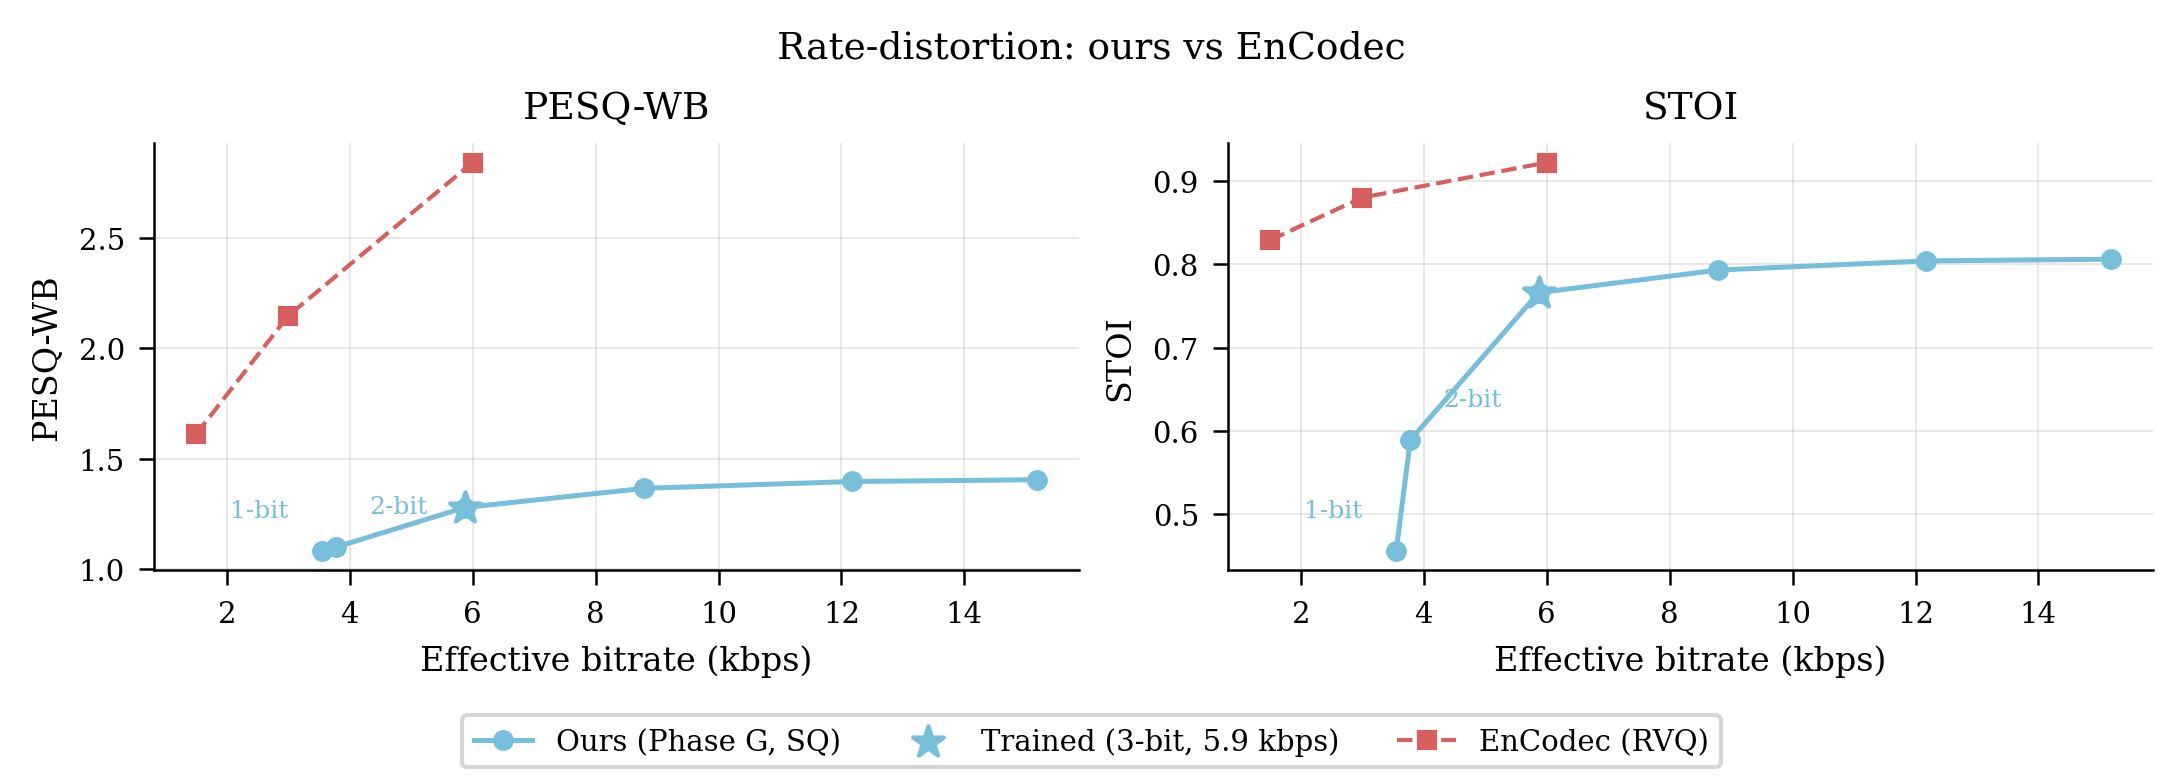
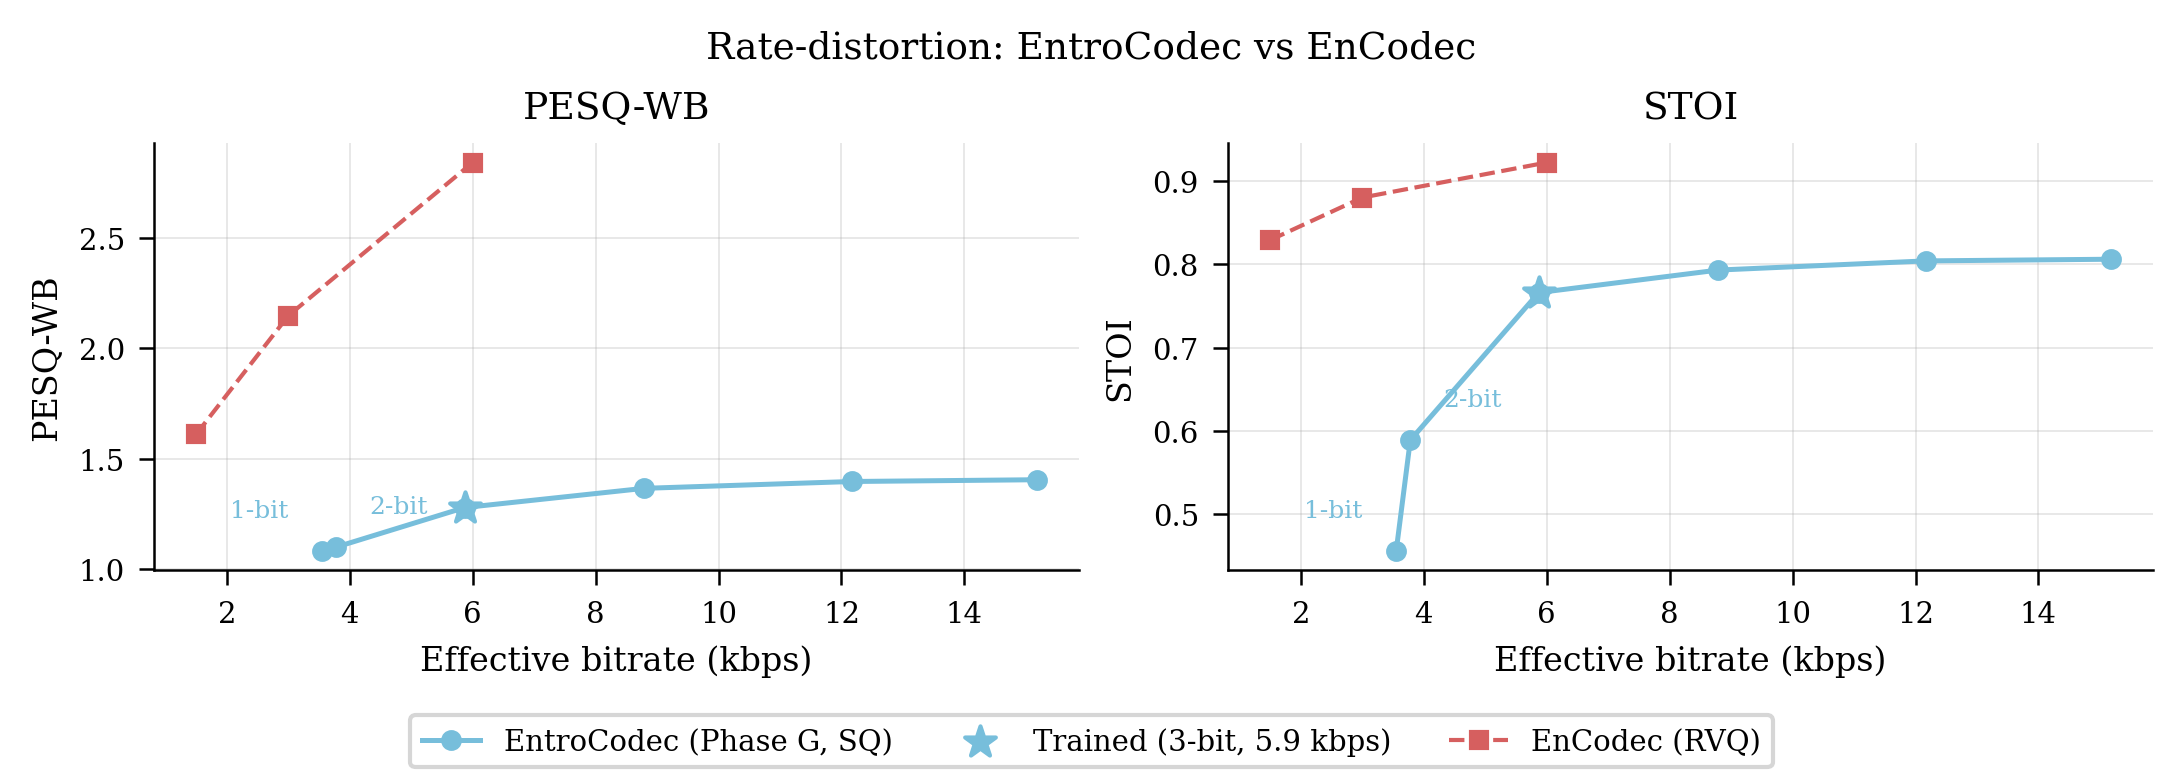
feat: update README and plots for EntroCodec; add complexity evaluation script

Changed region(s): [[0.187, 0.89, 0.8103, 0.9821], [0.3116, 0.0307, 0.6856, 0.0921]]

diff --git a/scripts/eval_complexity.py b/scripts/eval_complexity.py
@@ -1,0 +1,163 @@
+"""Result 19 — Complexity & latency comparison: ours (Phase G) vs EnCodec 24kHz.
+
+Reports, for a 1-second input clip at each model's native sample rate:
+  - trainable parameter count (encoder / decoder / bottleneck split)
+  - codebook / buffer storage (EnCodec RVQ has none of this in ours)
+  - MACs (thop) for encode and decode passes
+  - wall-clock encode+decode latency (CPU, mean of N runs)
+  - algorithmic delay (receptive field / first-frame latency), computed analytically
+"""
+import time
+import torch
+from thop import profile
+from src.model import NeuralAudioCodec
+
+
+def count_params(module):
+    return sum(p.numel() for p in module.parameters())
+
+
+def count_buffers(module):
+    return sum(b.numel() for b in module.buffers())
+
+
+def load_ours(ckpt_path="checkpoints_active/temporal_phaseG/best.pt"):
+    ckpt = torch.load(ckpt_path, map_location="cpu")
+    model = NeuralAudioCodec(
+        sample_rate=16000,
+        hop_length=160,
+        d_model=ckpt["d_model"],
+        n_layers=ckpt["n_layers"],
+        n_heads=ckpt["n_heads"],
+        window_size=ckpt["window_size"],
+        bottleneck_dim=ckpt["bottleneck_dim"],
+        temporal_stride=ckpt["temporal_stride"],
+    )
+    model.load_state_dict(ckpt["model_state_dict"])
+    model.eval()
+    return model
+
+
+def ours_breakdown(model):
+    enc = count_params(model.encoder)
+    dec = count_params(model.decoder)
+    proj = count_params(model.encoder_proj) + count_params(model.decoder_proj)
+    temporal = count_params(model.temporal_enc) + count_params(model.temporal_dec)
+    total = count_params(model)
+    buffers = count_buffers(model)
+    return {"encoder": enc, "decoder": dec, "bottleneck_proj": proj,
+            "temporal_stride": temporal, "total": total, "buffers": buffers}
+
+
+def encodec_breakdown(m):
+    enc = count_params(m.encoder)
+    dec = count_params(m.decoder)
+    quant = count_params(m.quantizer)
+    total = count_params(m)
+    buffers = count_buffers(m)
+    return {"encoder": enc, "decoder": dec, "quantizer": quant,
+             "total": total, "buffers": buffers}
+
+
+def time_call(fn, *args, n_warmup=3, n_runs=10):
+    for _ in range(n_warmup):
+        fn(*args)
+    t0 = time.perf_counter()
+    for _ in range(n_runs):
+        fn(*args)
+    return (time.perf_counter() - t0) / n_runs
+
+
+def min_samples_for_one_frame(encode_fn, sample_rate, lo=1, hi=None):
+    """Binary search: fewest raw samples needed to produce >=1 output frame.
+    This is the architecture's algorithmic (buffering) delay, independent of
+    compute time and of any chunking choice made by the inference script."""
+    hi = hi or sample_rate
+    with torch.no_grad():
+        while lo < hi:
+            mid = (lo + hi) // 2
+            x = torch.randn(1, 1, mid)
+            try:
+                n_out = encode_fn(x)
+                if n_out >= 1:
+                    hi = mid
+                else:
+                    lo = mid + 1
+            except Exception:
+                lo = mid + 1
+    return lo
+
+
+if __name__ == "__main__":
+    torch.manual_seed(0)
+
+    # ---- Ours ----
+    ours = load_ours()
+    ob = ours_breakdown(ours)
+    x16 = torch.randn(1, 1, 16000)  # 1s @ 16kHz
+
+    with torch.no_grad():
+        macs_enc_ours, _ = profile(ours, inputs=(x16,), verbose=False)
+
+    t_encode_ours = time_call(lambda: ours.encode(x16))
+    with torch.no_grad():
+        z_ours = ours.encode(x16)
+    t_decode_ours = time_call(lambda: ours.decode(z_ours))
+
+    print("=== Ours (Phase G, 16 kHz, causal, 3-bit SQ) ===")
+    for k, v in ob.items():
+        print(f"  {k:16s} {v:>14,}")
+    print(f"  MACs (1s clip, full fwd) {macs_enc_ours:>14,.0f}")
+    print(f"  encode latency (CPU)     {t_encode_ours*1000:>10.2f} ms")
+    print(f"  decode latency (CPU)     {t_decode_ours*1000:>10.2f} ms")
+
+    min_ours = min_samples_for_one_frame(
+        lambda x: ours.encode(x).shape[1], sample_rate=16000
+    )
+    print(f"  algorithmic delay (min buffering for 1 output frame): "
+          f"{min_ours} samples = {min_ours/16000*1000:.2f} ms @ 16kHz")
+    print(f"  current encode.py/infer_offline.py default chunking: "
+          f"1000.00 ms (--chunk-sec 1.0, configurable)")
+
+    # ---- EnCodec 24kHz @ 6.0 kbps ----
+    from encodec import EncodecModel
+    enc_model = EncodecModel.encodec_model_24khz()
+    enc_model.set_target_bandwidth(6.0)
+    enc_model.eval()
+    eb = encodec_breakdown(enc_model)
+
+    x24 = torch.randn(1, 1, 24000)  # 1s @ 24kHz
+
+    with torch.no_grad():
+        macs_full_enc, _ = profile(enc_model, inputs=(x24,), verbose=False)
+
+    def encodec_encode():
+        with torch.no_grad():
+            return enc_model.encode(x24)
+
+    def encodec_decode(frames):
+        with torch.no_grad():
+            return enc_model.decode(frames)
+
+    t_encode_enc = time_call(encodec_encode)
+    frames = encodec_encode()
+    t_decode_enc = time_call(lambda: encodec_decode(frames))
+
+    print("\n=== EnCodec 24kHz (6.0 kbps target) ===")
+    for k, v in eb.items():
+        print(f"  {k:16s} {v:>14,}")
+    print(f"  MACs (1s clip, full fwd) {macs_full_enc:>14,.0f}")
+    print(f"  encode latency (CPU)     {t_encode_enc*1000:>10.2f} ms")
+    print(f"  decode latency (CPU)     {t_decode_enc*1000:>10.2f} ms")
+    print(f"  frame_rate               {enc_model.frame_rate} Hz "
+          f"(hop = {1000/enc_model.frame_rate:.2f} ms)")
+    print("  NOTE: released 24kHz checkpoint uses symmetric/reflect padding "
+          "(causal=None) — it is NOT the paper's causal streaming variant, "
+          "so a locally measured algorithmic delay would not be a fair "
+          "like-for-like number. Use the paper's reported frame hop (13.3 ms) "
+          "as the reference for EnCodec's streaming configuration instead.")
+
+    print(f"\nTotal params  — ours: {ob['total']:,} | EnCodec: {eb['total']:,} "
+          f"(ratio {eb['total']/ob['total']:.2f}x)")
+    print(f"Buffer storage — ours: {ob['buffers']:,} | EnCodec: {eb['buffers']:,} "
+          f"(ratio {eb['buffers']/max(ob['buffers'],1):.2f}x)")

diff --git a/scripts/figures/plots.py b/scripts/figures/plots.py
@@ -68,7 +68,7 @@ def fig_01_phase_progression(data: dict) -> plt.Figure:
 
 
 # ---------------------------------------------------------------------------
-# fig_02 — R-D curve: PESQ-WB and STOI vs bitrate, ours vs EnCodec
+# fig_02 — R-D curve: PESQ-WB and STOI vs bitrate, EntroCodec vs EnCodec
 # ---------------------------------------------------------------------------
 
 def fig_02_rd_curve(data: dict) -> plt.Figure:
@@ -86,7 +86,7 @@ def fig_02_rd_curve(data: dict) -> plt.Figure:
         enc_vals = [r[metric] for r in encodec]
 
         ax.plot(our_kbps, our_vals, 'o-', color=style.PHASE_COLORS['G'], linewidth=1.2,
-                markersize=4, label='Ours (Phase G, SQ)')
+                markersize=4, label='EntroCodec (Phase G, SQ)')
         # 1-bit and 2-bit points sit only ~0.2 kbps apart — label them
         # directly so the pair doesn't read as a single marker.
         ax.annotate('1-bit', (our_kbps[0], our_vals[0]), textcoords='offset points',
@@ -106,7 +106,7 @@ def fig_02_rd_curve(data: dict) -> plt.Figure:
         ax.grid(True)
 
     style.legend(fig, ax=axes[0], ncol=3)
-    fig.suptitle('Rate-distortion: ours vs EnCodec', fontsize=9)
+    fig.suptitle('Rate-distortion: EntroCodec vs EnCodec', fontsize=9)
     return fig
 
 

diff --git a/scripts/generate_figures.py b/scripts/generate_figures.py
@@ -32,7 +32,7 @@ from figures.plots import DataNotAvailable
 
 FIGURES: dict[str, tuple] = {
     'fig_01':  (plots.fig_01_phase_progression,  'Phase PESQ+STOI bar chart C→G  (n=40, 95% CI)'),
-    'fig_02':  (plots.fig_02_rd_curve,           'R-D curve: PESQ-WB + STOI vs bitrate, ours vs EnCodec'),
+    'fig_02':  (plots.fig_02_rd_curve,           'R-D curve: PESQ-WB + STOI vs bitrate, EntroCodec vs EnCodec'),
     'fig_03':  (plots.fig_03_dim_entropy,        'Per-dimension entropy bar chart, Phase G'),
     'fig_04':  (plots.fig_04_entropy_quality,    'Latent entropy vs PESQ/STOI scatter (cross-phase)'),
     'fig_05':  (plots.fig_05_ood,                'OOD evaluation: bitrate + STOI by signal type'),

diff --git a/README.md b/README.md
@@ -1,6 +1,6 @@
 # Neural Audio Codec: What Determines the Rate–Distortion Ceiling of Scalar-Quantized Speech Codecs?
 
-A causal, streaming-capable neural audio codec built as the instrument for a controlled empirical study, not as an attempt to outperform state-of-the-art systems. The question: when a neural speech codec uses scalar quantization and a fixed, non-learned entropy coder, what sets the quality ceiling — quantizer resolution, or the information content the training objective places in the latent?
+**EntroCodec** — a causal, streaming-capable neural audio codec built as the instrument for a controlled empirical study, not as an attempt to outperform state-of-the-art systems. The question: when a neural speech codec uses scalar quantization and a fixed, non-learned entropy coder, what sets the quality ceiling — quantizer resolution, or the information content the training objective places in the latent?
 
 **Finding:** the ceiling is set by latent entropy — controlled by the training objective — not by quantization resolution. Adding more quantization bits past a point barely moves quality; deliberately regularizing entropy down (via a KL term) moves quality down with it; deliberately training for richer perceptual detail moves both up together, every time. This repository contains the codec, the eight-phase controlled training curriculum that produced this evidence, and every supporting experiment.
 
@@ -93,8 +93,8 @@ Evaluated on LibriSpeech `test-clean` (5 speakers, 5-second clips, 16 kHz mono).
 | EnCodec 1.5 kbps (Meta) | 1.5 kbps | 1.611 | 0.829 |
 | EnCodec 3.0 kbps (Meta) | 3.0 kbps | 2.148 | 0.880 |
 | EnCodec 6.0 kbps (Meta) | 6.0 kbps | 2.842 | 0.922 |
-| Ours — Phase C | 5.7 kbps | 1.202 | 0.733 |
-| **Ours — Phase G (default)** | **5.9 kbps** | **1.279** | **0.766** |
+| EntroCodec — Phase C | 5.7 kbps | 1.202 | 0.733 |
+| **EntroCodec — Phase G (default)** | **5.9 kbps** | **1.279** | **0.766** |
 
 **On the gap to EnCodec:** EnCodec uses residual vector quantization and adversarial training — neither replicated here. Section 3 rules out causality as the explanation for the gap. The contribution is the controlled evidence for *why* scalar-quantization codecs hit their quality ceiling, not closing the gap to systems with structurally different architectures.
 
